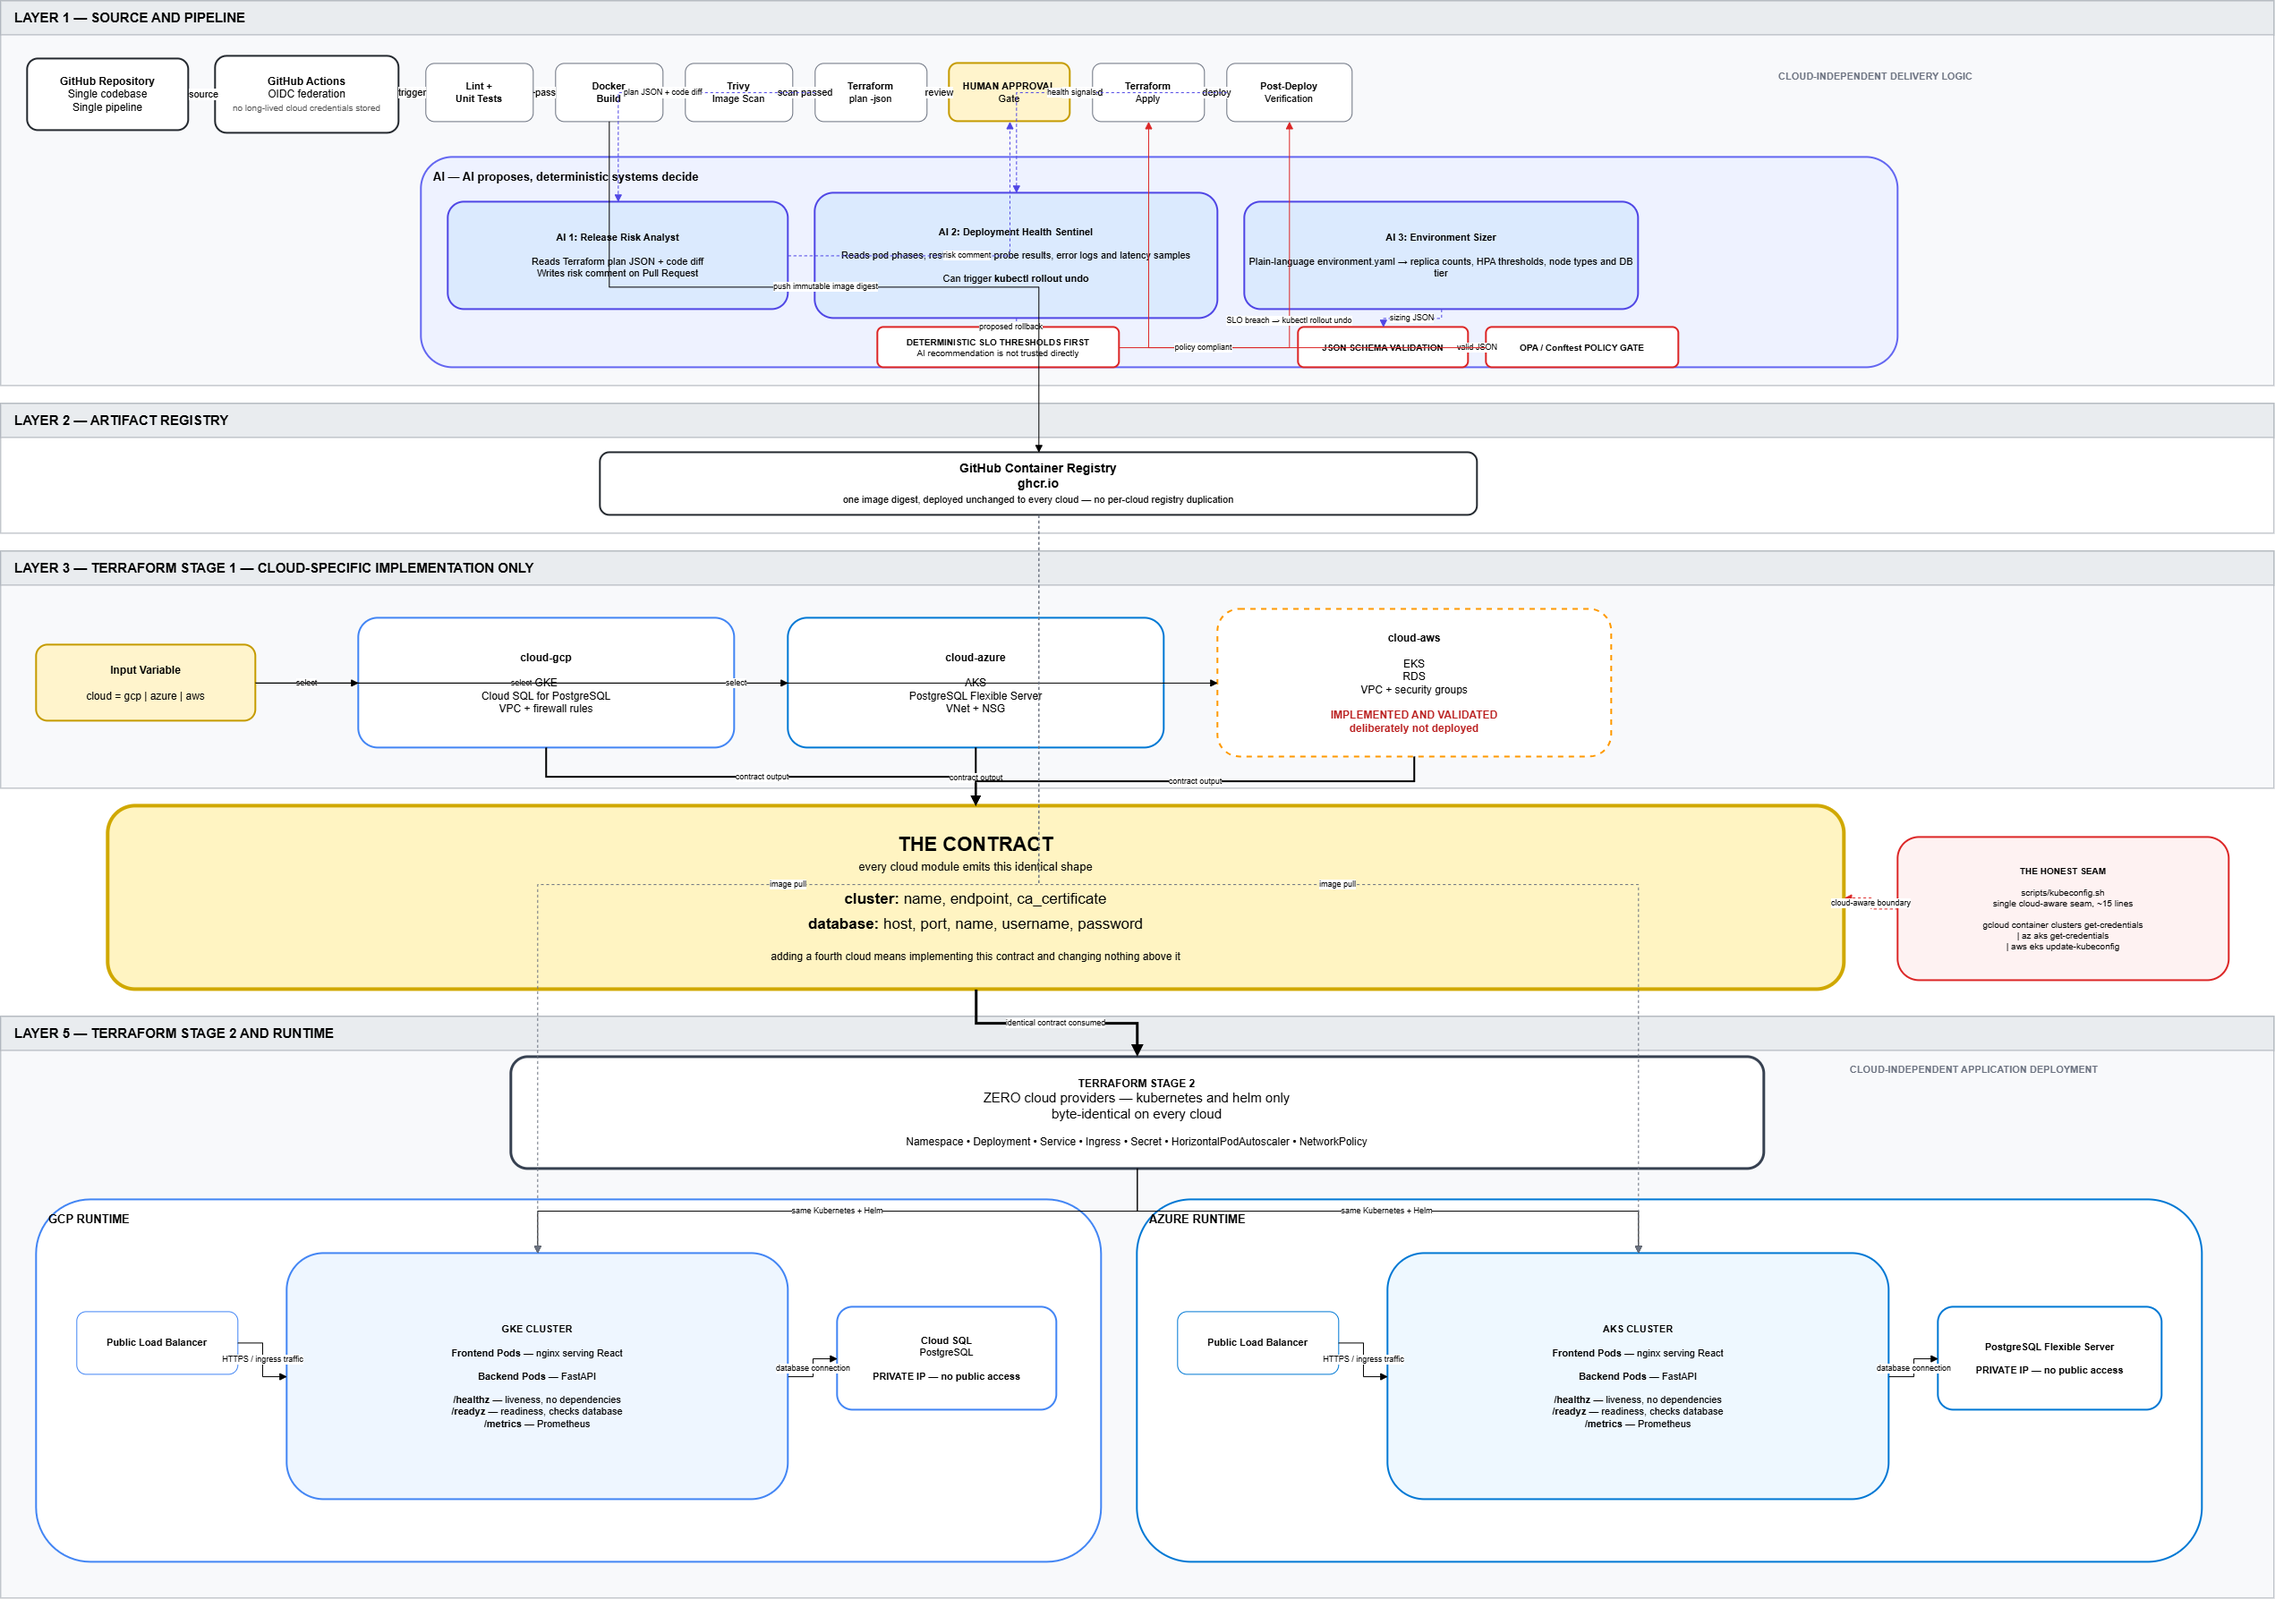
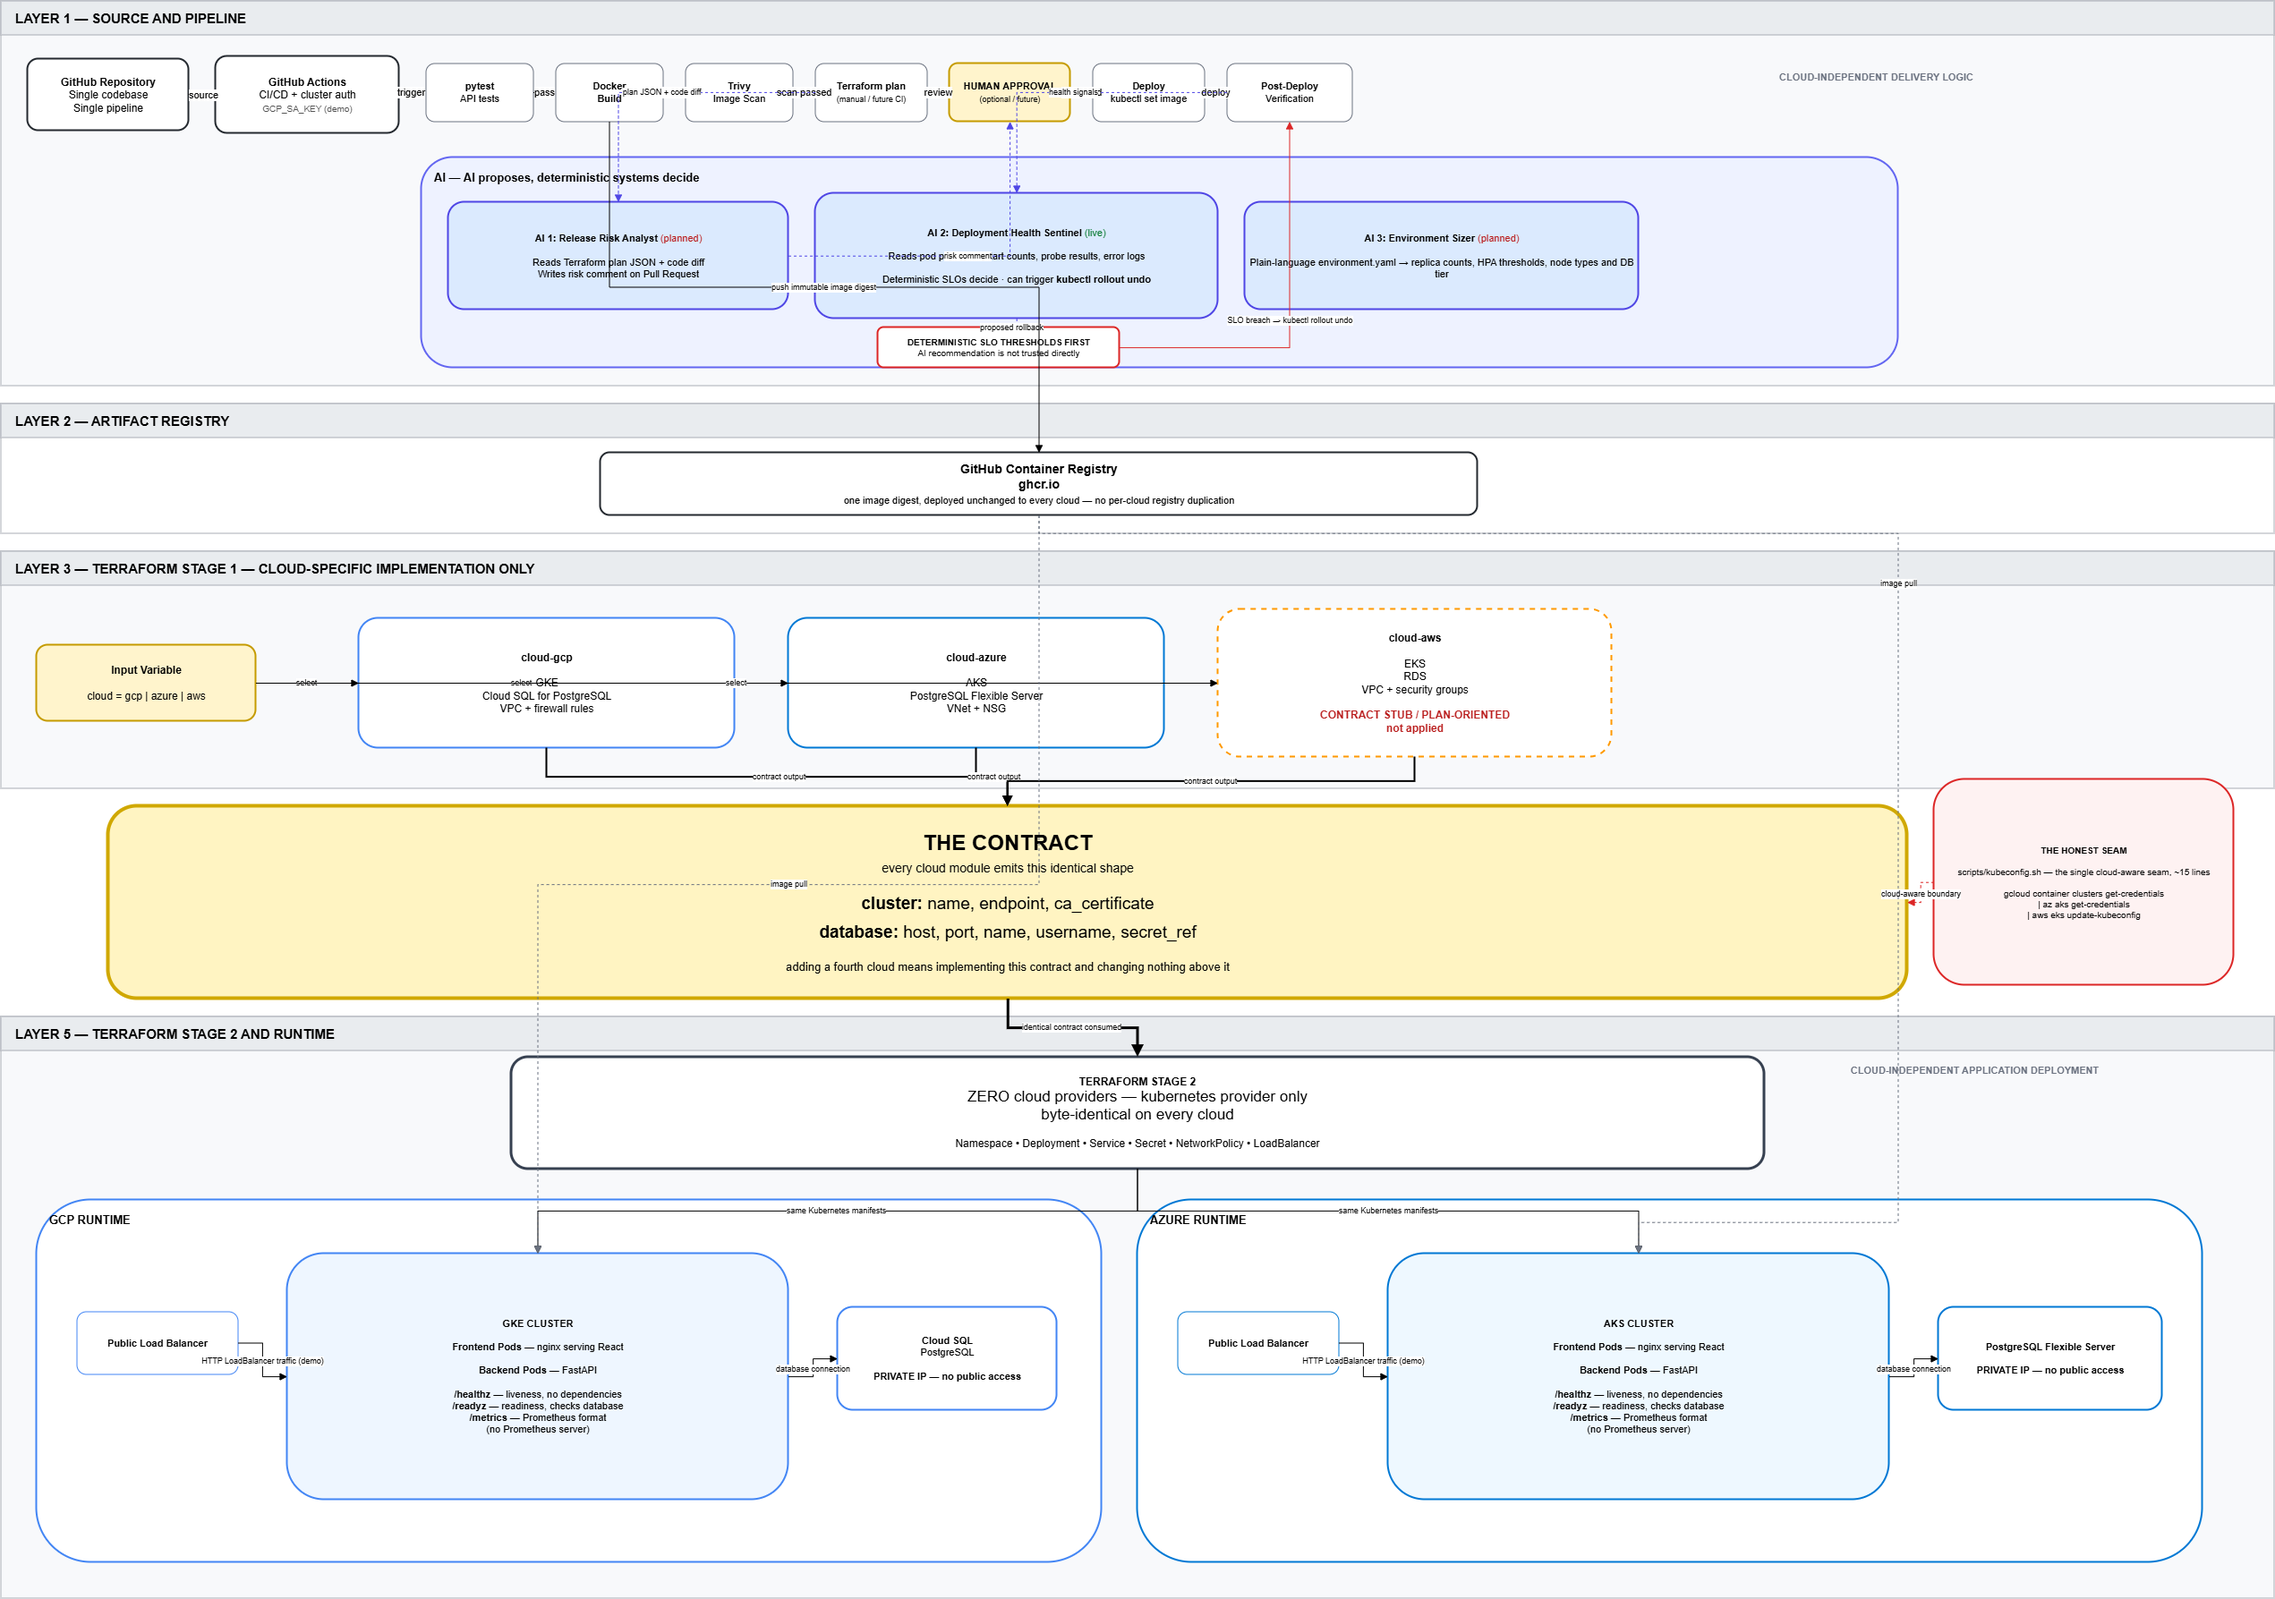
Clarify architecture diagram labels for AWS stub, pytest, and metrics.
Align README with the diagram: contract stub wording, pytest API tests, and Prometheus format without a Prometheus server.

diff --git a/README.md b/README.md
@@ -28,7 +28,7 @@ flowchart TB
   subgraph S1["Stage 1 · infra/10-cloud · cloud-specific"]
     GCP["cloud-gcp<br/>GKE + Cloud SQL + VPC + Secret Manager"]
     AZ["cloud-azure<br/>AKS + Flexible Server + VNet + Key Vault"]
-    AWS["cloud-aws<br/>EKS + RDS · plan-clean, not applied"]
+    AWS["cloud-aws<br/>EKS + RDS · CONTRACT STUB / PLAN-ORIENTED, not applied"]
   end
 
   CONTRACT{{"Contract output<br/>cluster · database · secret_ref<br/>no plaintext DB password"}}
@@ -61,7 +61,7 @@ flowchart TB
 | --- | --- |
 | `/healthz` | Liveness — process up; **no** DB |
 | `/readyz` | Readiness — DB reachable (or forced fail via `FORCE_READINESS_FAIL`) |
-| `/metrics` | Prometheus metrics |
+| `/metrics` | Prometheus **text format** scrape endpoint (no Prometheus server in this demo) |
 
 That split avoids cascading restarts when the database blips, and gives the Health Sentinel real signals.
 
@@ -213,7 +213,7 @@ A green “apply/push” does not mean users are served. The sentinel closes tha
 | --- | --- |
 | **GCP** | Live — GKE + private Cloud SQL (primary; closest to a GKE-centric production stack) |
 | **Azure** | Live — AKS Free tier + PostgreSQL Flexible Server (private VNet) |
-| **AWS** | Module present for the same contract; **not applied** (EKS control-plane cost). Intended to stay **plan/validate-clean**, not a second paid cluster |
+| **AWS** | **Contract stub / plan-oriented** — module present for the same contract; **not applied** (EKS control-plane cost). Stays plan/validate-clean, not a second paid cluster |
 
 **Switching clouds:** change `cloud = "gcp" | "azure" | "aws"` in tfvars, use the matching backend prefix, fetch kubeconfig via `scripts/kubeconfig.sh`, apply Stage 2 with the same manifests.
 
@@ -229,7 +229,7 @@ A green “apply/push” does not mean users are served. The sentinel closes tha
 | POST | `/api/ideas` | Body: `{"content":"..."}` |
 | GET | `/healthz` | Liveness |
 | GET | `/readyz` | Readiness (DB) |
-| GET | `/metrics` | Prometheus |
+| GET | `/metrics` | Prometheus text format (no Prometheus server) |
 
 ---
 
